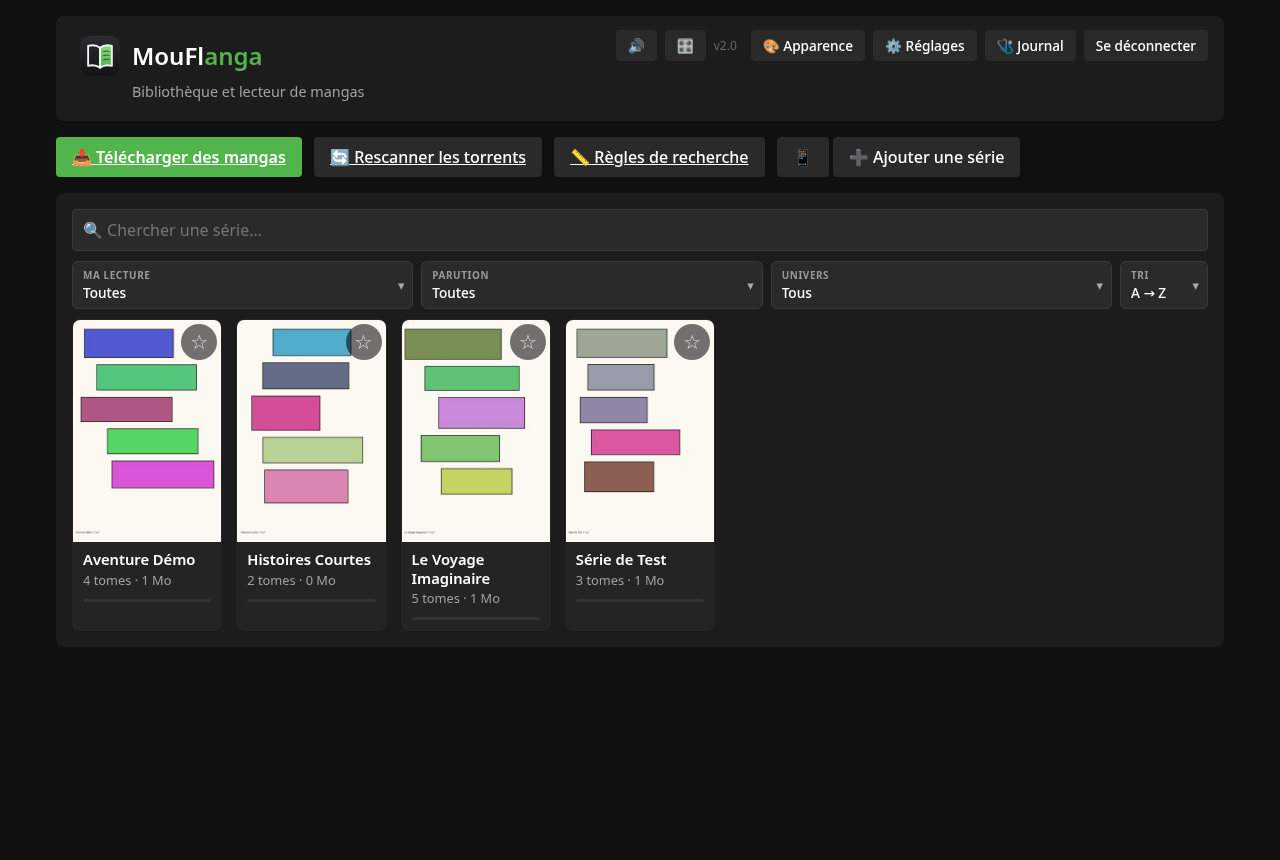
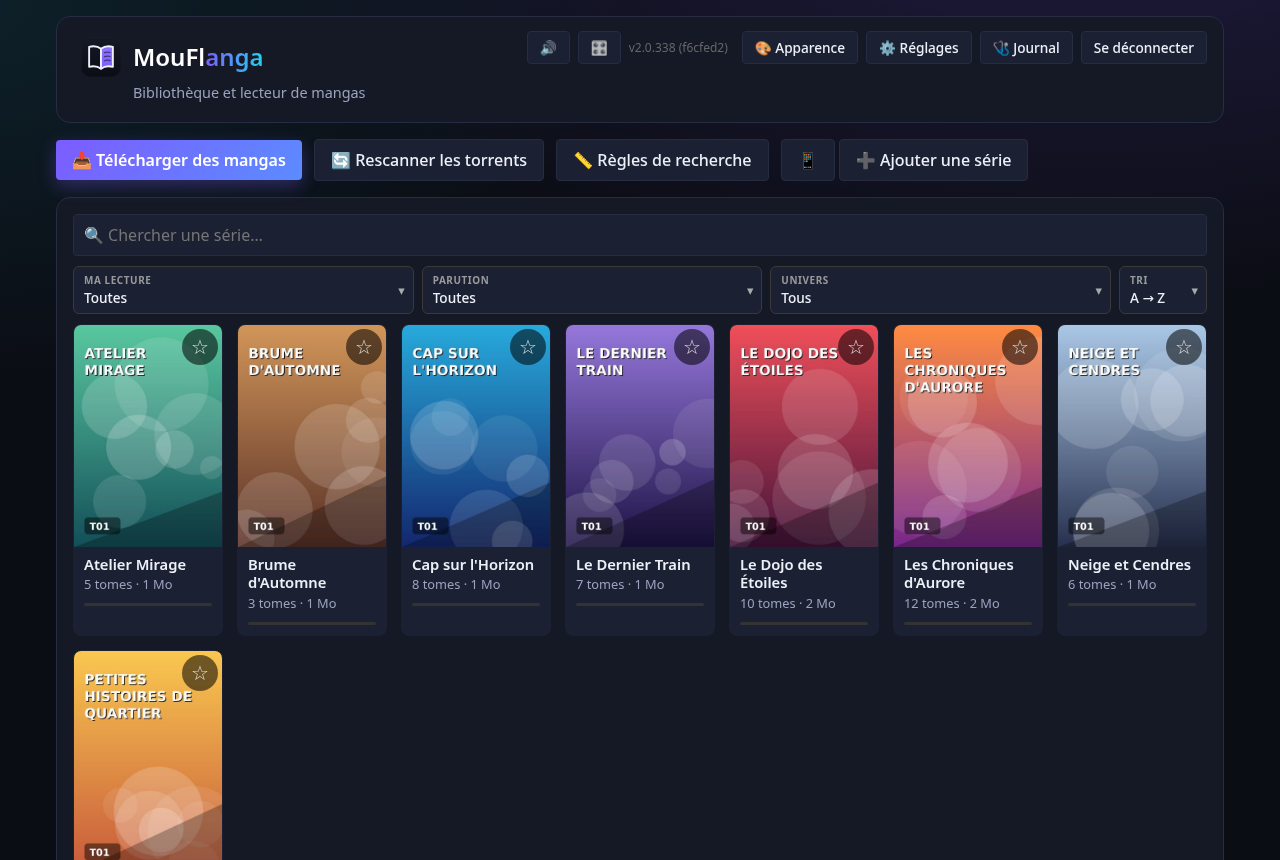
Captures d'écran refaites sur données de démonstration (accueil, série en grille, préférences, torrents, automatisations, téléphone)
Claude-Session: https://claude.ai/code/session_01GgAAypGxpCx9CSD41rrXxx

diff --git a/CHANGELOG.md b/CHANGELOG.md
@@ -1,6 +1,7 @@
 # Historique des versions
 
 ## [Non publié]
+- 📸 **Captures du README refaites** sur une bibliothèque de démonstration (titres inventés) : accueil, série en grille de couvertures, Réglages, téléphone, et trois nouvelles : ✨ Mes préférences, Télécharger → Torrents, 🤖 Automatisations.
 - ✨ **Mes préférences : les cases et pastilles étaient au-dessus de leur texte** (téléphone et ordinateur) : une règle de la page (`.formulaire label`) écrasait celle des choix ; elles sont de nouveau sur la même ligne.
 - 🎨 **Panneau Uniformité vu au téléphone (390 px)** : rien ne dépasse, le bouton « 🤖 Tout faire d'un coup » est assez grand ; le menu « Référence » passe de 13,6 à 16 px (le téléphone zoomait en le touchant).
 - 📱 **Pages revues au téléphone (390 px)** : l'historique de l'allègement tient sans faire défiler son tableau, les onglets de ⚙ Réglages et les boutons des pages Couvertures (et de l'aperçu de l'envoi groupé) font au moins 44 px. Importer, Vérification et Découper étaient déjà bons.

diff --git a/README.md b/README.md
@@ -15,7 +15,7 @@ Pour installer l'appli sur le serveur et la remettre en route après une panne, 
 
 ![La bibliothèque](docs/screenshots/liste.png)
 
-**Une série : chapitres lus ou non, bouton « Reprendre »**
+**Une série : ses tomes en grille de couvertures, avec la progression de lecture**
 
 ![Une série](docs/screenshots/serie.png)
 
@@ -26,6 +26,18 @@ Pour installer l'appli sur le serveur et la remettre en route après une panne, 
 **La page ⚙ Réglages : dossier des mangas et préférences de lecture**
 
 ![La page Réglages](docs/screenshots/reglages.png)
+
+**✨ Mes préférences : quelques questions simples pour choisir les torrents**
+
+![Mes préférences](docs/screenshots/preferences.png)
+
+**Télécharger → Torrents : le meilleur choix en premier, comparé à ta bibliothèque**
+
+![Torrents](docs/screenshots/torrents.png)
+
+**⚙ Réglages → 🤖 Automatisations : ce que l'appli fait toute seule quand un tome arrive**
+
+![Automatisations](docs/screenshots/automatisations.png)
 
 **La fenêtre « Journal » pour comprendre une panne**
 
